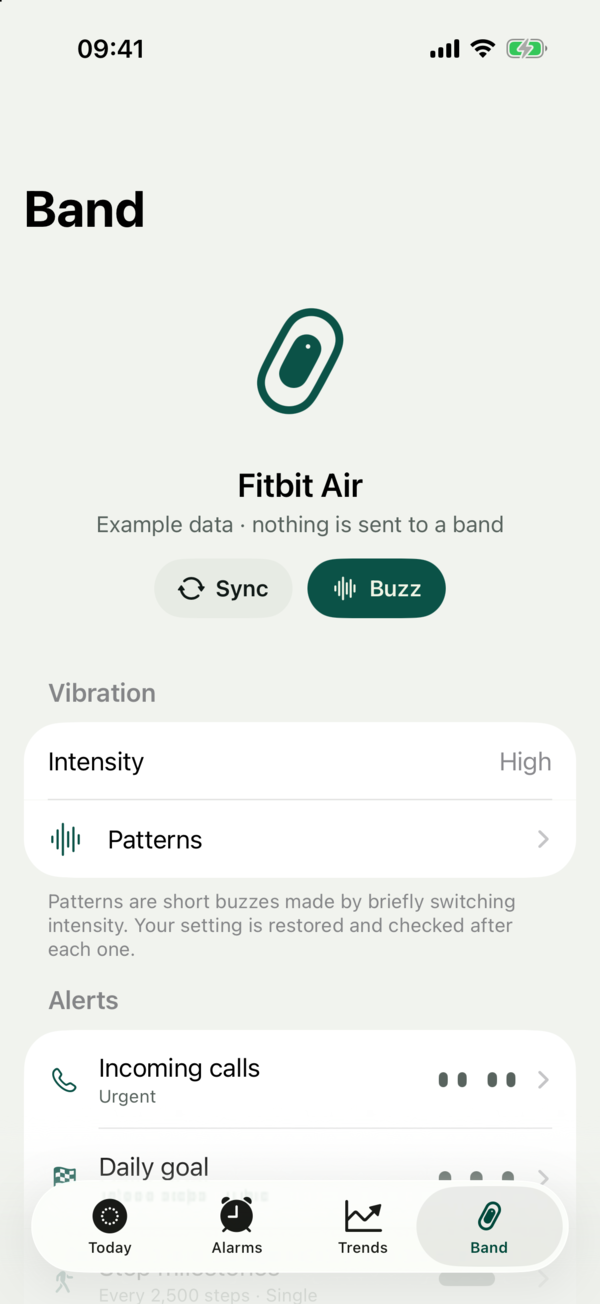
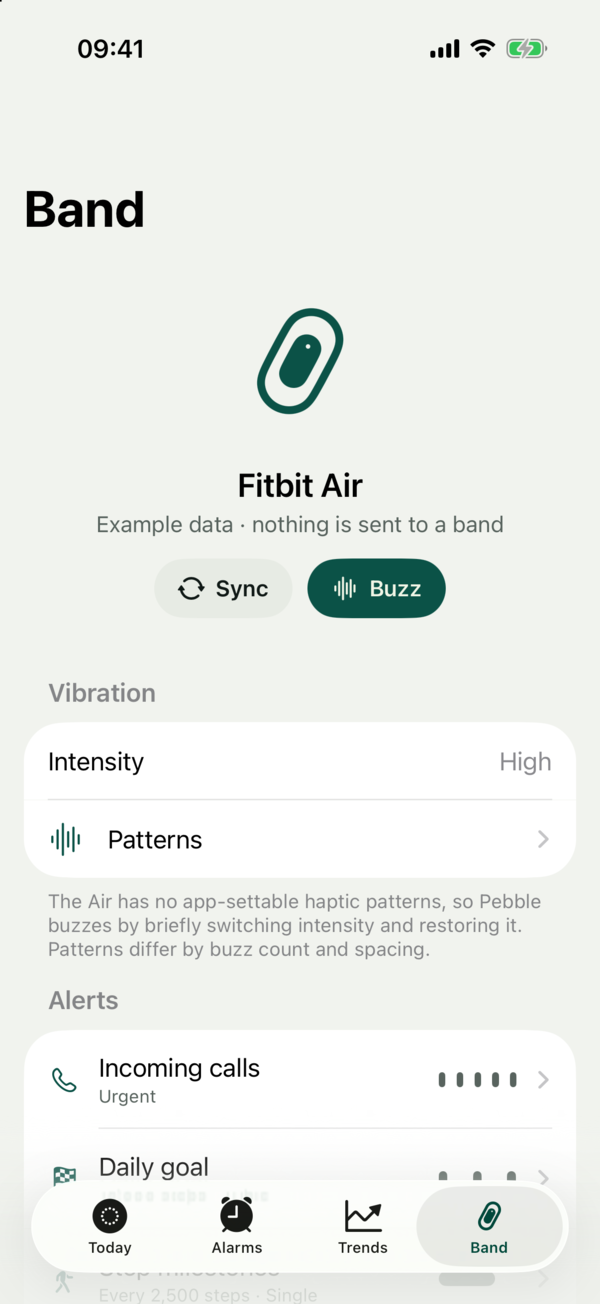
Rework vibration for perceptible patterns; record haptic/LED/gesture research
- Vibration: each pulse now toggles intensity, holds 0.3s and restores with no
  mid-pattern read (round-trips per pulse halved); verify once at the end. Widen
  gaps (1.8/3.4/0.9s) so pulse count is feelable above the ~1s Bluetooth floor.
  Owner confirmed Triple's three buzzes are countable on the band.
- Record decompilation verdicts: no app-addressable LED; firmware haptic patterns
  (sb/records hapticPattern) and DeviceCommands exist but are unverified on Air
  and deliberately not sent (brick-safety); no exported tap/gesture event, wrist
  on/off is the only candidate and is unobserved on this Air.
- Add --diagnostic call-check (CallKit test call) to exercise the background call
  path; backgrounded band read verified.
- Move Sex enum to Fitness so the offline fitness test compiles standalone.
- Docs: PROTOCOL, README, DEVICE-ACCEPTANCE, METHODS and new screenshots.

Changed region(s): [[0.09, 0.6748, 0.9, 0.7362]]

diff --git a/App/BandConnection.swift b/App/BandConnection.swift
@@ -31,13 +31,12 @@ final class BandConnection: NSObject, ObservableObject, CBCentralManagerDelegate
     private var pendingSharingProbe = false
     private var authenticatedPeripheralID: UUID?
     private var observedEventCount = 0
-    private enum Phase { case alarms, capabilities, deviceInfo, activity, writing, verifying, creationFinalizing, haptic, hapticWriting, hapticVerifying, pulseChanged, pulseProbe, pulseRestoring, pulseVerified }
+    private enum Phase { case alarms, capabilities, deviceInfo, activity, writing, verifying, creationFinalizing, haptic, hapticWriting, hapticVerifying, pulseOn, pulseOff, pulseFinalVerify, pulseProbe, pulseRestoring, pulseVerified }
     private var correctedCreation = false
     private var pendingPulse: HapticPulseTransaction?
     private var pulseTimer: Timer?
     private var backgroundTask = UIBackgroundTaskIdentifier.invalid
     private var completedPulseGroups = 0
-    private var recoveringPulse = false
     private var pulseSucceeded = false
     private var pulseCompletion: ((Bool) -> Void)?
     private var primeCompletion: ((Bool) -> Void)?
@@ -224,7 +223,7 @@ final class BandConnection: NSObject, ObservableObject, CBCentralManagerDelegate
             catch { status = "Vibration backup unavailable"; detail = "Unlock your iPhone before retrying. The recovery backup has been preserved."; return }
         }
         session = UUID()
-        completedPulseGroups = 0; recoveringPulse = pendingPulse != nil; pulseSucceeded = false; pulseReady = false
+        completedPulseGroups = 0; pulseSucceeded = false; pulseReady = false
         purpose = requested; phase = .alarms; beforeWrite = nil; writeSent = false; writeVerified = false; correctedCreation = false
         active = true; didRead = false; hasStarted = false; sent = 0; received = 0; events = []; fragments = []; outgoing = []; observedEventCount = 0; systemSharingReady = false
         if case .observe = requested { observedEvents = [] }
@@ -491,7 +490,8 @@ final class BandConnection: NSObject, ObservableObject, CBCentralManagerDelegate
                 catch { finish("Couldn’t preserve vibration setting", "Nothing was changed."); return }
                 pendingPulse = transaction
                 beginPulseWindow()
-                sendPulseSetting(transaction.alternate, phase: .pulseChanged)
+                completedPulseGroups = 0
+                emitPulseOn()
             } else if case let .haptic(original, value) = purpose {
                 guard let fresh = haptic, fresh.configuration == original.configuration,
                       capabilities?.hapticIntensities.contains(value) == true,
@@ -530,15 +530,33 @@ final class BandConnection: NSObject, ObservableObject, CBCentralManagerDelegate
                 record("observer_ready"); return
             }
             finish(reading == nil ? "Alarms refreshed" : "Up to date", reading == nil ? "Activity wasn’t available. Any previous reading retains its timestamp." : "Connection closed. Your band keeps tracking.")
-        case .pulseChanged:
-            record("pulse_change_response", value: String(code))
-            // A failed/missing acknowledgement may still mean the write applied.
-            // Inspect before restoring; never replay the vibration itself.
-            let delay: TimeInterval = (64...95).contains(code) ? 0.8 : 0
-            pulseTimer = Timer(timeInterval: max(0.001, delay), repeats: false) { [weak self] _ in
-                self?.read(3, phase: .pulseProbe, title: "Checking vibration setting")
+        case .pulseOn:
+            // One pulse = switch to the alternate intensity (buzz), hold briefly,
+            // then switch straight back (buzz). No read between: a read per toggle
+            // is what made every pattern take so long they felt identical.
+            record("pulse_on", value: String(code))
+            guard case .pulse(let pattern) = purpose, let pendingPulse else { finish("Vibration recovery needed", "Refresh to inspect the saved setting."); return }
+            pulseTimer = Timer(timeInterval: pattern.holdSeconds, repeats: false) { [weak self] _ in
+                self?.sendPulseSetting(pendingPulse.original, phase: .pulseOff)
             }
             if let pulseTimer { RunLoop.main.add(pulseTimer, forMode: .common) }
+        case .pulseOff:
+            record("pulse_off", value: String(code))
+            guard case .pulse(let pattern) = purpose else { finish("Vibration recovery needed", "Refresh to inspect the saved setting."); return }
+            completedPulseGroups += 1
+            if completedPulseGroups < pattern.pulses {
+                pulseTimer = Timer(timeInterval: pattern.gap, repeats: false) { [weak self] _ in self?.emitPulseOn() }
+                if let pulseTimer { RunLoop.main.add(pulseTimer, forMode: .common) }
+            } else {
+                // Confirm the band is back on the original intensity exactly once.
+                read(3, phase: .pulseFinalVerify, title: "Checking vibration setting")
+            }
+        case .pulseFinalVerify:
+            guard code == 69, let current = try? HapticSetting(data: body), pendingPulse?.recovery(for: current) == .alreadyRestored else {
+                finish("Vibration recovery needed", "Refresh to inspect the saved setting."); return
+            }
+            pulseSucceeded = true
+            completePulse(current)
         case .pulseProbe:
             guard code == 69, let current = try? HapticSetting(data: body), let pendingPulse else {
                 finish("Vibration recovery needed", "Refresh to inspect the saved setting."); return
@@ -596,15 +614,20 @@ final class BandConnection: NSObject, ObservableObject, CBCentralManagerDelegate
             self?.finish("Vibration recovery needed", "Refresh to check and restore the saved setting.")
         }
     }
+    /// Begins one pulse of the active pattern by switching to the alternate intensity.
+    private func emitPulseOn() {
+        guard let pendingPulse else { finish("Vibration recovery needed", "Refresh to inspect the saved setting."); return }
+        sendPulseSetting(pendingPulse.alternate, phase: .pulseOn)
+    }
     private func sendPulseSetting(_ value: HapticSetting, phase: Phase) {
         guard let transport, let payload = try? value.response(changingTo: value.intensity) else {
             finish("Vibration recovery needed", "The original setting is backed up on this iPhone."); return
         }
         self.phase = phase
-        status = phase == .pulseChanged ? "Testing short vibration" : "Restoring vibration setting"
+        status = phase == .pulseOn || phase == .pulseOff ? "Buzzing your band" : "Restoring vibration setting"
         let result = payload.withUnsafeBytes { air_transport_set_haptics(transport, $0.bindMemory(to: UInt8.self).baseAddress, payload.count) }
         guard result == 0 else { finish("Vibration recovery needed", "Refresh to inspect the saved setting."); return }
-        record(phase == .pulseChanged ? "pulse_change_sent" : "pulse_restore_sent")
+        record(phase == .pulseOn ? "pulse_on_sent" : phase == .pulseOff ? "pulse_off_sent" : "pulse_restore_sent")
         work()
     }
     private func completePulse(_ value: HapticSetting) {
@@ -612,18 +635,6 @@ final class BandConnection: NSObject, ObservableObject, CBCentralManagerDelegate
         catch { finish("Recovery backup retained", "The original setting was verified, but the recovery file could not be cleared."); return }
         pendingPulse = nil; haptic = value
         record("pulse_original_verified")
-        if !recoveringPulse, case .pulse(let pattern) = purpose {
-            completedPulseGroups += 1
-            if completedPulseGroups < pattern.groups {
-                let gap = pattern.gaps[completedPulseGroups - 1]
-                pulseTimer = Timer(timeInterval: gap, repeats: false) { [weak self] _ in
-                    self?.read(3, phase: .haptic, title: "Preparing next vibration group")
-                }
-                if let pulseTimer { RunLoop.main.add(pulseTimer, forMode: .common) }
-                return
-            }
-            pulseSucceeded = true
-        }
         finish(pulseSucceeded ? "Vibration complete" : "Vibration setting restored", "Original intensity restored and read back from your Air.")
     }
     private func read(_ resource: UInt32, phase: Phase, title: String) {

diff --git a/App/Alerts.swift b/App/Alerts.swift
@@ -2,19 +2,34 @@ import Foundation
 
 /// A pattern is a sequence of verified intensity-feedback groups separated by
 /// gaps. Timing is approximate: each group waits for band acknowledgements.
+/// A pattern is a count of pulses with a gap between them. Each pulse toggles the
+/// band's intensity to its alternate and straight back — the only verified way to
+/// make the Air vibrate. Fine sub-second rhythms aren't possible (every change is
+/// a Bluetooth round-trip), so patterns differ by pulse count and gap length.
 enum BuzzPattern: String, Codable, CaseIterable, Identifiable {
     case single, double, triple, longGap, urgent
     var id: String { rawValue }
-    var gaps: [TimeInterval] {
+    var pulses: Int {
         switch self {
-        case .single: return []
-        case .double: return [0.8]
-        case .triple: return [0.8, 0.8]
-        case .longGap: return [1.8]
-        case .urgent: return [0.45, 1.35, 0.45]
+        case .single: return 1
+        case .double, .longGap: return 2
+        case .triple: return 3
+        case .urgent: return 5
         }
     }
-    var groups: Int { gaps.count + 1 }
+    /// Seconds between the end of one pulse and the start of the next. Wide gaps
+    /// make the pulse count countable despite the ~1 s Bluetooth floor per buzz.
+    var gap: TimeInterval {
+        switch self {
+        case .single: return 0
+        case .double, .triple: return 1.8
+        case .longGap: return 3.4
+        case .urgent: return 0.9
+        }
+    }
+    /// Seconds the alternate intensity is held before restoring, shaping one pulse.
+    var holdSeconds: TimeInterval { self == .urgent ? 0.2 : 0.3 }
+    var groups: Int { pulses }
     var title: String {
         switch self {
         case .single: return "Single"
@@ -24,8 +39,11 @@ enum BuzzPattern: String, Codable, CaseIterable, Identifiable {
         case .urgent: return "Urgent"
         }
     }
-    /// Relative beat positions for drawing the pattern (0 = first group).
-    var beats: [TimeInterval] { gaps.reduce(into: [0]) { $0.append($0.last! + 1 + $1) } }
+    /// Relative beat positions for the glyph (one mark per pulse).
+    var beats: [TimeInterval] {
+        guard pulses > 1 else { return [0] }
+        return (0..<pulses).map { Double($0) * (1 + gap) }
+    }
 }
 
 enum AlertEvent: String, Codable, CaseIterable, Identifiable {

diff --git a/App/UI/BandScreen.swift b/App/UI/BandScreen.swift
@@ -25,7 +25,7 @@ struct BandScreen: View {
                     }
                     NavigationLink { PatternsView() } label: { Label("Patterns", systemImage: "waveform") }
                 } header: { Text("Vibration") } footer: {
-                    Text("Patterns are short buzzes made by briefly switching intensity. Your setting is restored and checked after each one.")
+                    Text("The Air has no app-settable haptic patterns, so Pebble buzzes by briefly switching intensity and restoring it. Patterns differ by buzz count and spacing.")
                 }
 
                 Section {
@@ -269,7 +269,7 @@ struct PatternsView: View {
                             .accessibilityLabel("Try \(pattern.title)")
                     }
                 }
-            } footer: { Text("Each buzz takes about two seconds while Pebble switches intensity and confirms the original setting. Vibration must not be set to Off.") }
+            } footer: { Text("Each buzz is a brief intensity switch (~1 s over Bluetooth), so patterns differ by how many buzzes and the gaps between them, not fast rhythm. Vibration must not be set to Off.") }
         }
         .surfaceRows()
         .navigationTitle("Patterns")

diff --git a/tests/FitnessTests.swift b/tests/FitnessTests.swift
@@ -105,7 +105,7 @@ import Foundation
         precondition(soon >= 300 && soon < 600)
         let idle = AlertEngine.nextCheck(settings: settings, goal: 10000, samples: samples, now: now, calendar: calendar)
         precondition(idle == 1800)
-        precondition(BuzzPattern.urgent.groups == 4 && BuzzPattern.longGap.beats == [0, 2.8])
+        precondition(BuzzPattern.urgent.pulses == 5 && BuzzPattern.longGap.beats == [0, 4.4] && BuzzPattern.single.beats == [0])
 
         let legacy = try JSONDecoder().decode(AlertSettings.self, from: Data("{\"keepAlive\":true}".utf8))
         precondition(legacy.keepAlive && legacy.goal.enabled && legacy.milestoneStep == 2500)

diff --git a/App/Fitness.swift b/App/Fitness.swift
@@ -1,5 +1,7 @@
 import Foundation
 
+enum Sex: String, Codable, CaseIterable, Identifiable { case female, male, unspecified; var id: String { rawValue } }
+
 enum MetricKind: String, Codable, CaseIterable, Identifiable {
     case steps, sleepHours, restingPulse, hrvSDNN, sleepMidpoint
     var id: String { rawValue }

diff --git a/App/AppStore.swift b/App/AppStore.swift
@@ -1,8 +1,6 @@
 import Foundation
 import Combine
 
-enum Sex: String, Codable, CaseIterable, Identifiable { case female, male, unspecified; var id: String { rawValue } }
-
 struct Profile: Codable, Equatable {
     var age: Int?
     var maximumHeartRate: Int?

diff --git a/README.md b/README.md
@@ -20,14 +20,15 @@ No firmware changes, no account, no cloud.
 | --- | --- | --- |
 | Alarms: add, edit, repeat, smart wake, delete | Fresh read, conflict check, protected backup, read-back verification | Yes (2026-10-15) |
 | Vibration intensity (Off/Low/High) | Advertised options only, verified read-back | Yes |
-| Vibration patterns: Single, Double, Triple, Long gap, Urgent | 1–4 intensity-feedback buzzes; setting restored and checked after each | Yes, all four Urgent buzzes felt by the owner |
+| Vibration patterns: Single, Double, Triple, Long gap, Urgent | 1–5 buzzes via intensity toggle, spaced so the count is feelable; restored and verified | Yes — owner counted Triple's 3 buzzes on the band |
 | Per-event alerts: calls, daily goal, step milestones, move reminder, Shortcuts | Each event has its own pattern, plus an optional iPhone notification or webhook | Goal buzz and foreground call buzz verified earlier; new engine covered by tests |
 | Background alerts | Opt-in **Keep Pebble running** (silent mixable audio session) plus adaptive step checks; iOS background refresh when off | Background band read verified; a locked-phone call not yet tested |
 | Shortcuts & Siri | App Intents: **Buzz Band**, **Get Steps**, **Get Band Battery** | Built and registered; run on device pending |
 | Steps, heart rate, battery | Activity-only read (~3 s) or full sync (~5 s) | Yes |
 | Live heart rate | Standard Bluetooth Heart Rate Profile while *Share heart rate* is on in Google Health; zones, RMSSD from RR intervals, Edwards load | Needs sharing turned on |
-| Trends | Steps, sleep, resting HR, HRV, sleep timing; 7-day average against your own usual range | Logic tested; uses Apple Health data |
-| Training | Session-RPE load, Banister fitness/fatigue/form, weekly load, VO₂max estimate, Karvonen zones | Logic tested |
+| Readiness | Transparent 0–100 recovery score from your own HRV, resting HR, sleep duration and regularity, each component shown | Logic tested; uses Apple Health data |
+| Trends | Steps, sleep, resting HR, HRV; sleep timing with regularity and social jetlag; 7-day average against your own usual range | Logic tested; uses Apple Health data |
+| Training | Session-RPE load, Banister fitness/fatigue/form, EWMA acute:chronic ratio, weekly ramp, HRV CV, VO₂max vs age/sex norms, Karvonen zones | Logic tested |
 
 ### What the Air can't do from an iPhone
 
@@ -36,13 +37,15 @@ No firmware changes, no account, no cloud.
   with a Bluetooth trace), and iOS gives no app access to other apps'
   notifications. Pebble uses Shortcuts automations instead: *Message* or *Email*
   trigger → **Buzz Band**.
-- **LED colour.** The status light is firmware-controlled: white above 20 %
-  battery, red below. No command for it is known; Pebble doesn't guess one.
-- **Double-tap as a phone trigger.** Double-tap is handled on the band (battery
-  light, stop alarm). A read-only listening test with firm double-taps produced
-  no tap event, only the usual `rset`. Pebble's **Listen for band events**
-  screen stays available, and shows unknown event codes, if a firmware update
-  adds one.
+- **LED colour.** Decompilation found no app-addressable LED for any Fitbit
+  model; the notification `color` field is a UI accent for screened devices. The
+  Air's light is firmware battery status (white ≥20 %, red <20 %) only.
+- **Double-tap / gestures as a phone trigger.** Decompilation confirms the Air
+  exports no tap or gesture event — double-tap is an on-device alarm-dismissal
+  behaviour only, and there is no accelerometer/gyro stream. The one defined
+  interaction event is wrist on/off, which this Air has never emitted. Pebble's
+  **Listen for band events** screen shows any event code (unknown ones as
+  four-character codes) so a trigger can be wired if the firmware ever emits one.
 - **A permanent connection.** The Air accepts one secure-session owner at a
   time. Pebble connects briefly and disconnects, so Google Health keeps syncing.
 
@@ -75,8 +78,16 @@ Each figure is explained in the app (**Trends → How these are calculated**) an
   14-night standard deviation.
 - **Steps:** about 100 steps/min for moderate walking (Tudor-Locke et al. 2018);
   goal guidance from Paluch et al. 2022.
+- **Readiness:** HRV-led recovery heuristic (HRV 40, resting HR 25, sleep 25,
+  regularity 10), rescaled to available inputs (Plews et al. 2013; Buchheit 2014).
+- **Workload:** EWMA acute:chronic ratio (Williams et al. 2017), shown after ~8
+  training days with the 0.8–1.3 band as context, not a rule.
+- **Circadian:** social jetlag = weekend vs weekday sleep-midpoint gap
+  (Wittmann et al. 2006).
+- **Cardio fitness:** VO₂max ranked against age/sex norms (Cooper Institute).
 
-No readiness score, diagnosis or injury prediction.
+The daily Readiness score is a transparent, user-visible heuristic from your own
+baselines — not a diagnosis, clinical measure or injury prediction.
 
 ## Build
 

diff --git a/docs/PROTOCOL.md b/docs/PROTOCOL.md
@@ -135,3 +135,36 @@ timing includes Bluetooth round trips.
 Event IDs are four ASCII characters packed big-endian (`rset` = 0x72736574).
 Unknown IDs are now reported as `?abcd`, or as hex when not printable, so a
 future tap or wrist event would be recognisable from the in-app listening screen.
+
+## Notifications, haptic patterns, LED and gestures — 2026-10-15 research
+
+Decompiled Google Health Android analysis (right-to-repair, read-only) clarified
+what the shared Fitbit protocol exposes versus what the Air actually supports:
+
+- **No app-addressable LED.** No RGB/backlight capability exists for any model.
+  The `color` field on a notification is a UI accent for screened devices. The
+  Air's light is firmware battery status (white ≥20%, red <20%) only.
+- **Firmware haptic patterns exist in the protocol but are not used here.** A
+  Switchboard `Record` (`POST sb/records`, mobile-data protocol `0x6001`) carries
+  `NotificationCommonExpression` with `hapticPattern` (field 10, uint32) and
+  `appColor` (field 2). This Air was never observed receiving `sb/records`, its
+  notification capability is unconfirmed, and `hapticPattern` values are
+  undocumented opaque integers. Sending it blind is a device risk, so Pebble
+  does **not** originate `sb/records`, `md/<proto>` `DeviceCommands`
+  (`code`+`payload`), or any other unobserved write.
+- **Vibration primitive.** The only verified way to make the Air buzz is a
+  `POST /settings` intensity change (Low↔High preview), restored and verified.
+  Each buzz is one Bluetooth round-trip (~1 s), so Pebble's patterns differ by
+  buzz count and gap, not sub-second rhythm. A pulse is toggle → 0.3 s hold →
+  restore, with no read between pulses and one read-back at the end. On the
+  physical Air, pulse counts are distinguishable with ~4 s spacing; ~1.2 s
+  spacing felt identical (it sits at the round-trip floor).
+- **No exported tap/gesture event.** The `Event` enum is fixed: `rset`, `bsnc`,
+  `cgps`, `ping`, `aofl`, `wrs+` (2003989291), `wrs-` (2003989293). Double-tap is
+  only an on-device alarm-dismissal method. `TapGestureOption` configures what a
+  tap does on the band and is not sent to the phone.
+- **Wrist on/off is the only candidate interaction event**, over `POST /events`
+  and `/eventsSecure` (the phone is the CoAP server; reply 2.04). This Air has so
+  far emitted only `rset`, so Pebble keeps a read-only event-listening screen
+  that surfaces any event code (including unknown ones as four-character codes),
+  ready to map to an action if the firmware ever emits one.

diff --git a/docs/DEVICE-ACCEPTANCE.md b/docs/DEVICE-ACCEPTANCE.md
@@ -171,3 +171,26 @@ The existing app-controlled notification test remains separate: it establishes
 its encrypted connection before the notification and explicitly requests haptic
 feedback groups on the matching foreground callback. It cannot intercept other
 apps' notifications or establish locked/background delivery.
+
+## Pebble 1.1 — vibration, background and health (2026-10-15)
+
+- **Vibration patterns rebuilt.** The old flow read the setting back after every
+  toggle, so each pulse took ~4–5 s and all patterns felt alike. Each pulse is now
+  toggle → 0.3 s hold → restore with no read between, verifying once at the end
+  (round-trips per pulse halved). On the physical Air, Single ran in ~2 s and
+  Urgent produced five spaced pulses; the owner then counted Triple's three
+  buzzes, confirming count is perceptible with ~4 s spacing. Gaps were widened
+  (double/triple 1.8 s, long 3.4 s, urgent 0.9 s) because ~1.2 s spacing felt
+  identical — that is the Bluetooth round-trip floor, the reason sub-second
+  rhythm is impossible.
+- **Background call path added as a diagnostic.** `--diagnostic call-check [delay]`
+  starts keep-alive for that process and reports a CallKit test call so the
+  call → alert → band path can be exercised without a real caller. A background
+  run (app sent to Settings) connected, authenticated, read activity and closed
+  in the `background` state, with the process staying alive. A locked-phone call
+  was not completed in this session (device was locked remotely).
+- **Advanced health shipped.** Readiness, EWMA acute:chronic workload, HRV
+  coefficient of variation, social jetlag, sleep regularity and VO₂max norms,
+  all covered by the offline fitness tests.
+- **No unsafe writes.** LED colour, `sb/records` haptic patterns and
+  `DeviceCommands` were researched and deliberately not sent to the band.
